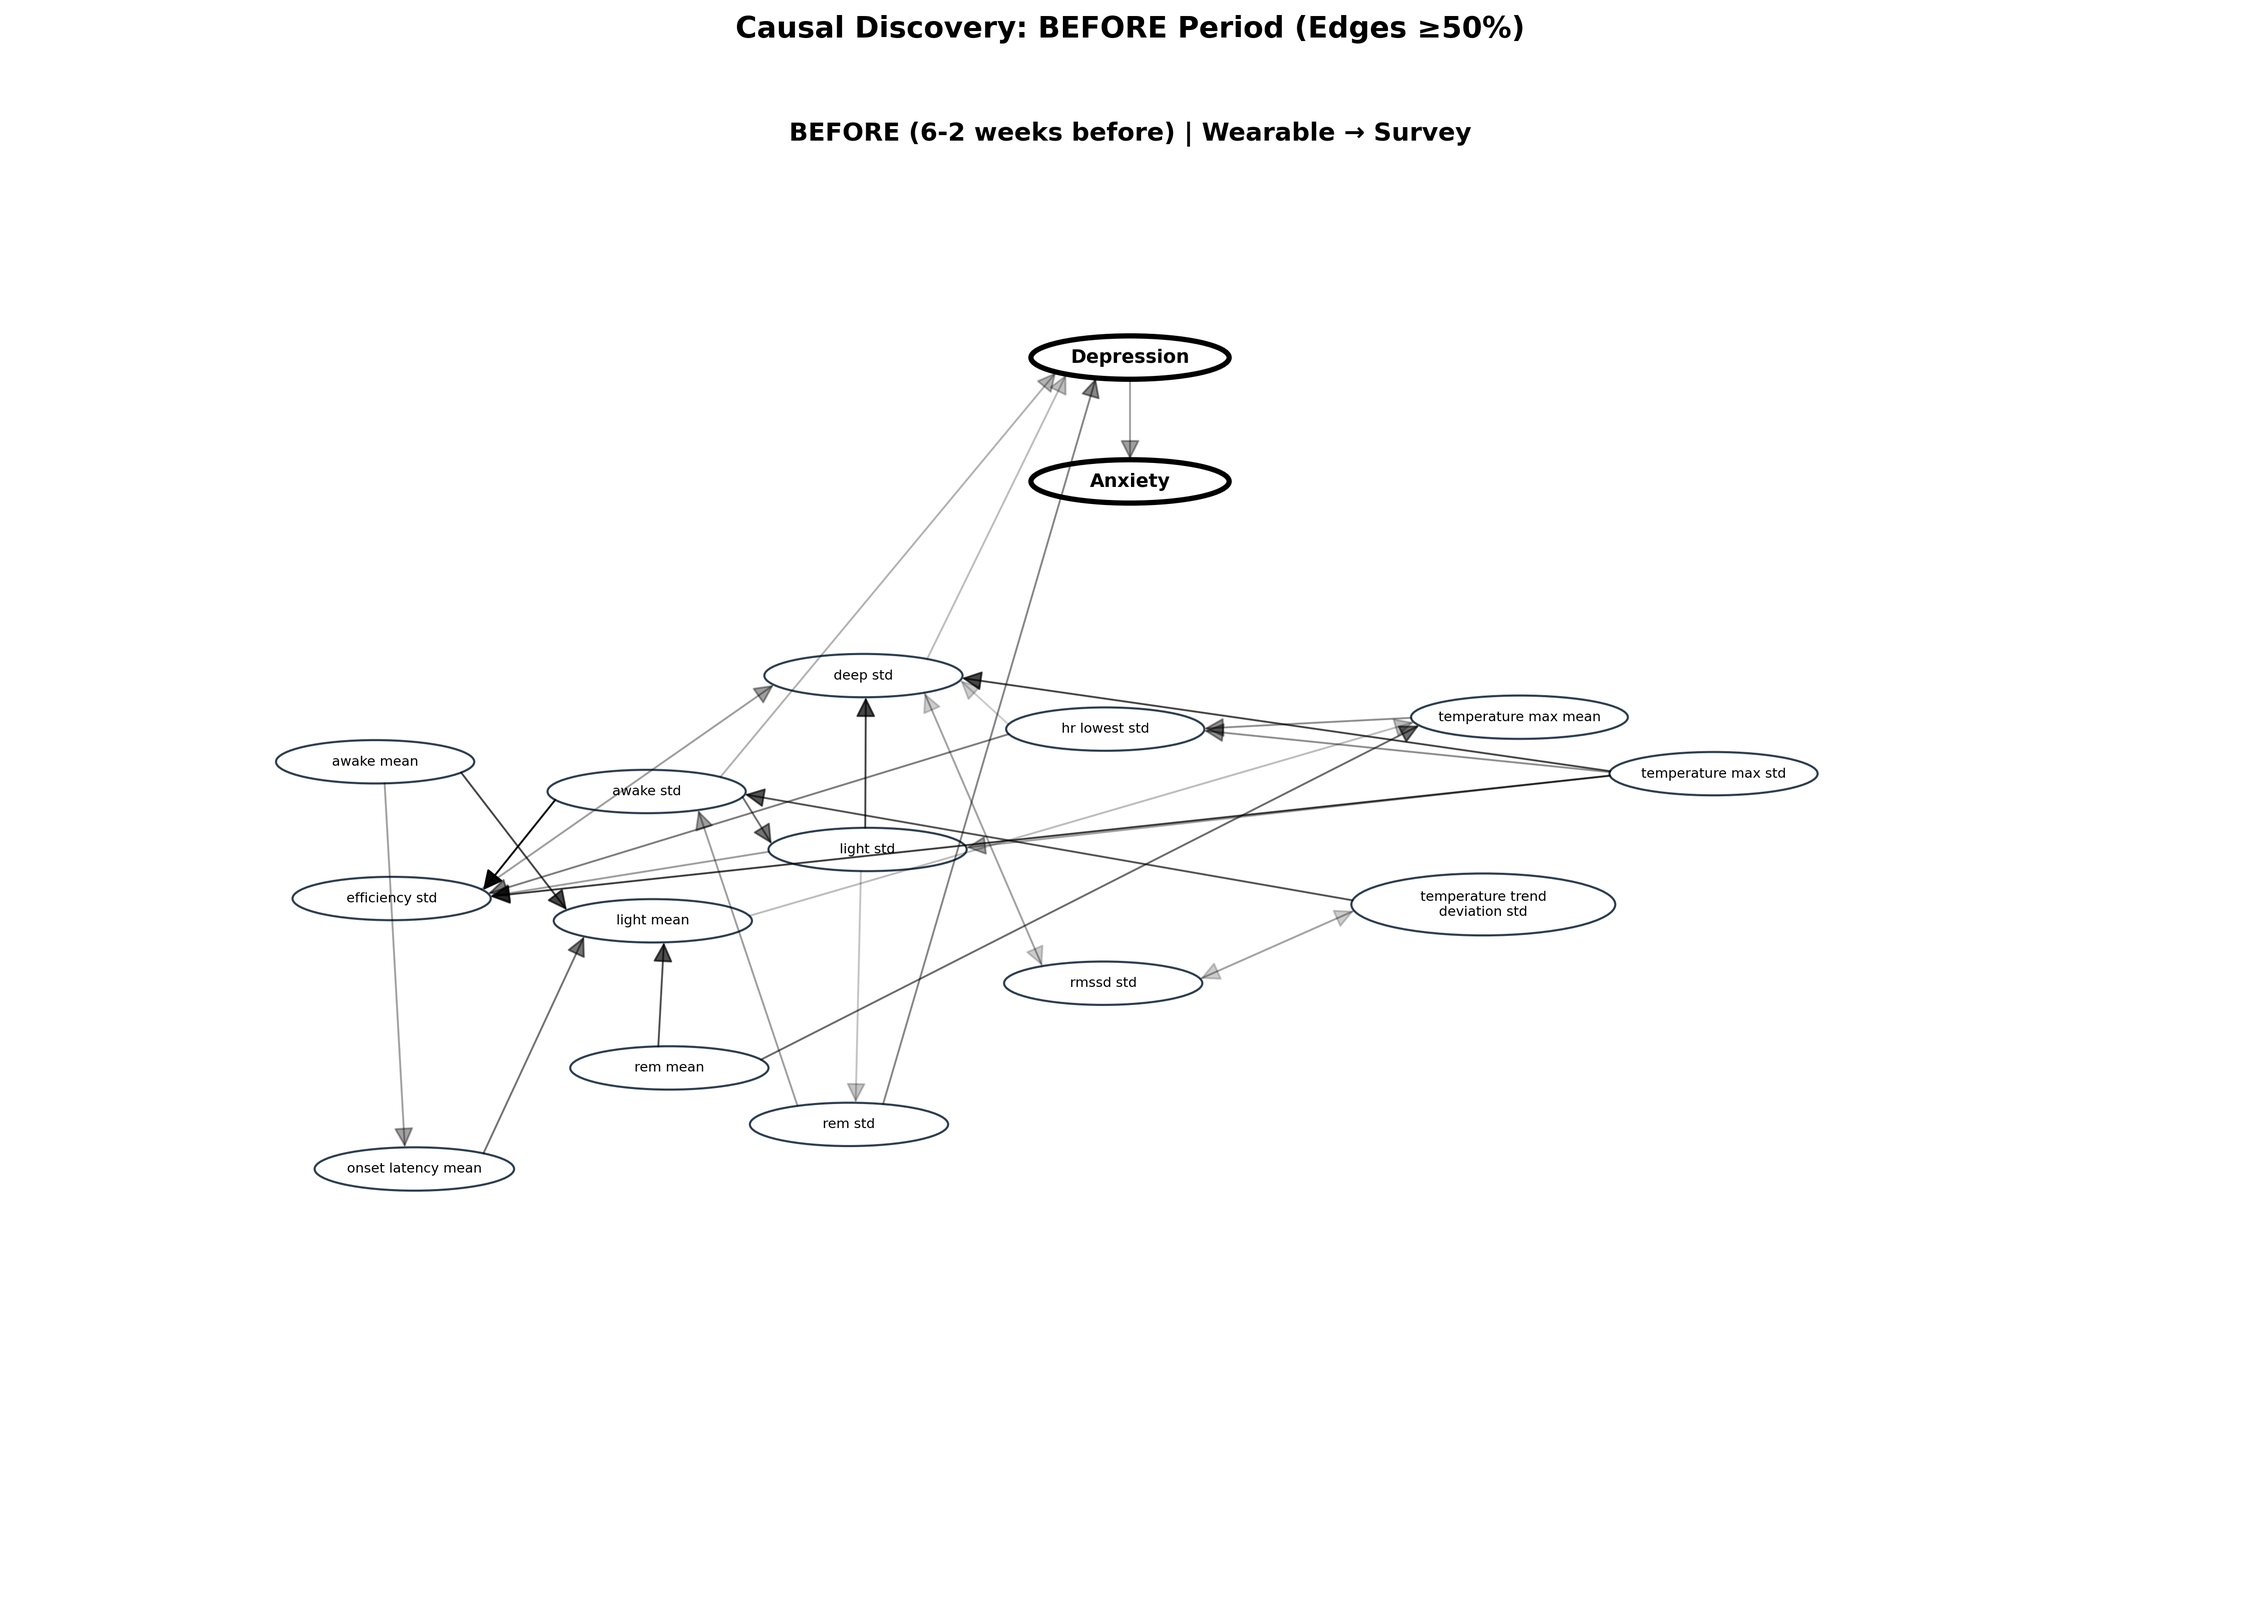
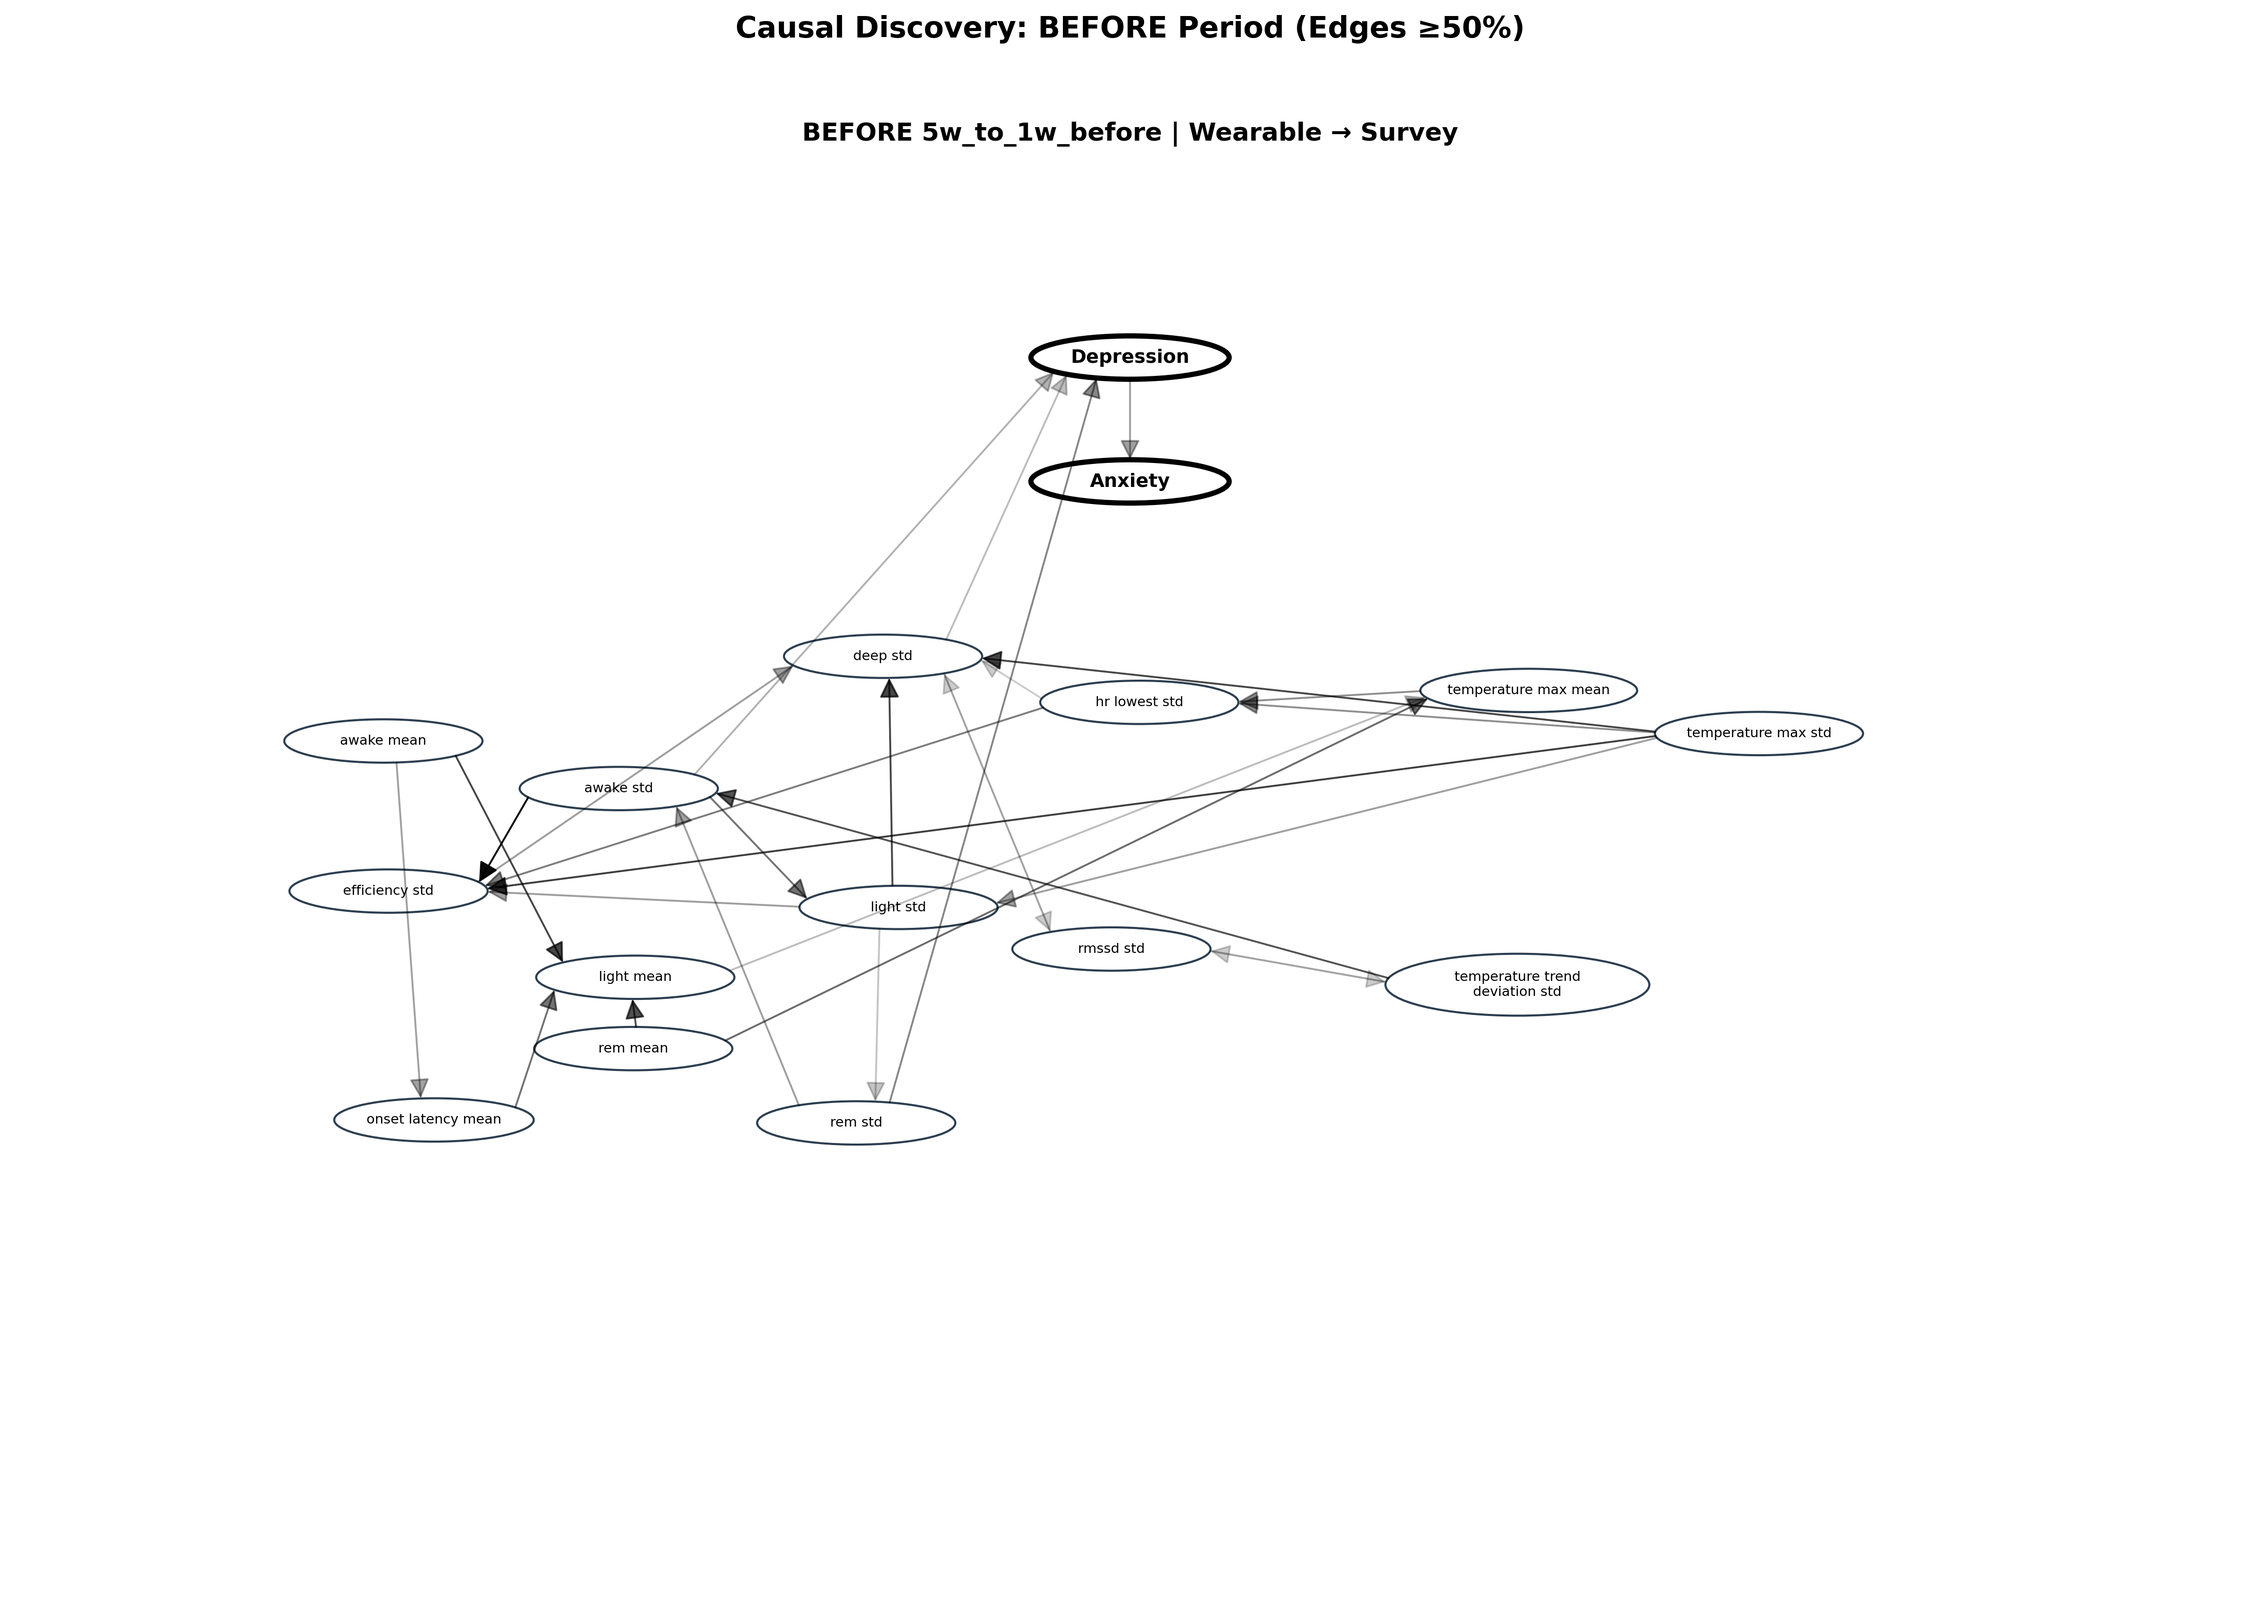
Uppdate causal chart

diff --git a/plot_causal_diagram_new.py b/plot_causal_diagram_new.py
@@ -480,10 +480,10 @@ def create_visualizations(before_edges_full, after_edges_full,
                     fontsize=16, fontweight='bold', y=0.985)
         
         create_clean_hierarchical_plot(before_edges,
-                                      'BEFORE (6-2 weeks before) | Wearable → Survey',
+                                      f"BEFORE {before_dataset_name} | Wearable → Survey",
                                       axes[0])
         create_clean_hierarchical_plot(after_edges,
-                                      'AFTER (1-5 weeks after) | Survey → Wearable',
+                                      f"AFTER {after_dataset_name} | Survey → Wearable",
                                       axes[1])
         
         plt.tight_layout(rect=[0, 0, 1, 0.98])
@@ -516,7 +516,7 @@ def create_visualizations(before_edges_full, after_edges_full,
                                fontsize=14, fontweight='bold', y=0.98)
             
             create_clean_hierarchical_plot(before_edges,
-                                          'BEFORE (6-2 weeks before) | Wearable → Survey',
+                                          f"BEFORE {before_dataset_name} | Wearable → Survey",
                                           ax_before)
             
             plt.tight_layout(rect=[0, 0, 1, 0.96])
@@ -537,7 +537,7 @@ def create_visualizations(before_edges_full, after_edges_full,
                               fontsize=14, fontweight='bold', y=0.98)
             
             create_clean_hierarchical_plot(after_edges,
-                                          'AFTER (1-5 weeks after) | Survey → Wearable',
+                                          f"AFTER {after_dataset_name} | Survey → Wearable", 
                                           ax_after)
             
             plt.tight_layout(rect=[0, 0, 1, 0.96])
@@ -568,8 +568,8 @@ if __name__ == "__main__":
     
     try:
         before_edges_full, after_edges_full = load_edges_for_analysis(
-            before_dataset_name='6w_to_2w_before',
-            after_dataset_name='1w_to_5w_after',
+            before_dataset_name='4w_to_0w_before',
+            after_dataset_name='0w_to_4w_after',
             edges_dir='data/edges'
         )
         
@@ -577,8 +577,8 @@ if __name__ == "__main__":
         create_visualizations(
             before_edges_full=before_edges_full,
             after_edges_full=after_edges_full,
-            before_dataset_name='6w_to_2w_before',
-            after_dataset_name='1w_to_5w_after',
+            before_dataset_name='4w_to_0w_before',
+            after_dataset_name='0w_to_4w_after',
             thresholds=[50, 60, 70, 80],
             output_dir='test_figures'
         )
